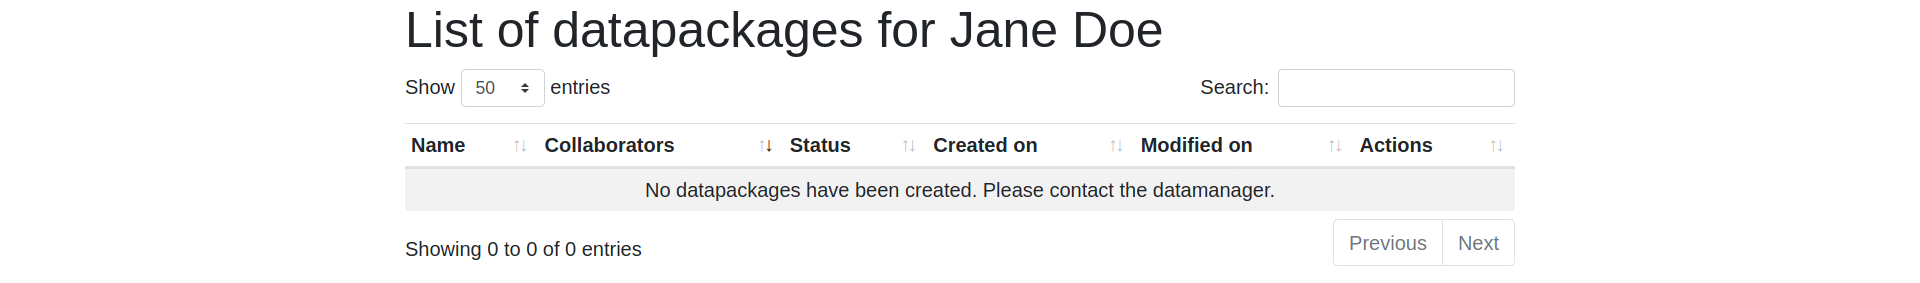
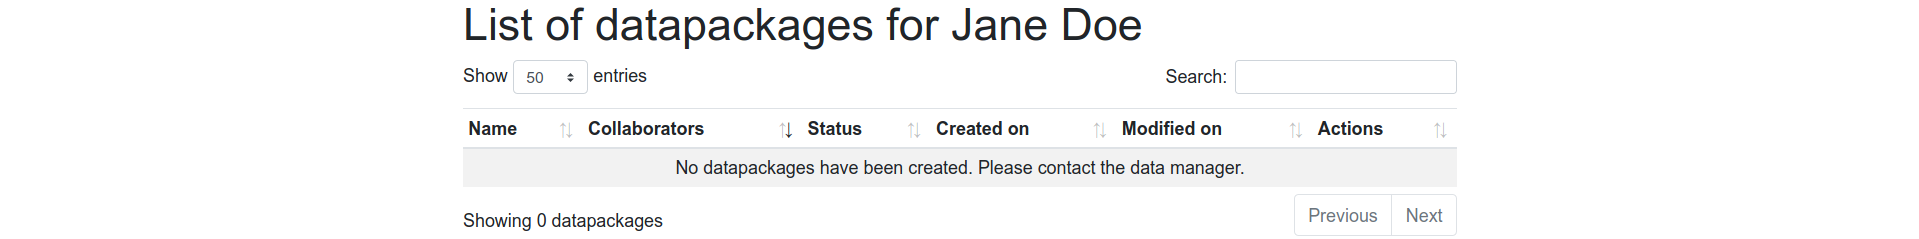
Changed strings: "Create a Collaborator" to "Create collaborator" and similar things for datapackages

diff --git a/SchemaCollaboration/management/templates/management/schema-list.html b/SchemaCollaboration/management/templates/management/schema-list.html
@@ -54,7 +54,7 @@
                 searchHighlight: true,
                 order: [[4, "desc"]],
                 language: {
-                    emptyTable: "No datapackages have been created. <a href=\"{% url 'management:datapackage-create' %}\">Create a Datapackage</a>",
+                    emptyTable: "No datapackages have been created. <a href=\"{% url 'management:datapackage-create' %}\">Create datapackage</a>",
                     zeroRecords: "No matching datapackages.",
                     info: "Showing _START_ to _END_ of _TOTAL_ datapackages",
                     infoEmpty: "Showing 0 datapackages",
@@ -65,6 +65,6 @@
         });
     </script>
     <hr>
-    <a href="{% url 'management:datapackage-create' %}" class="btn btn-primary">Create a Datapackage</a>
+    <a href="{% url 'management:datapackage-create' %}" class="btn btn-primary">Create datapackage</a>
     <p></p>
 {% endblock %}

diff --git a/SchemaCollaboration/management/templates/management/person-list.html b/SchemaCollaboration/management/templates/management/person-list.html
@@ -33,7 +33,7 @@
                 searchHighlight: true,
                 order: [[0, "asc"]],
                 language: {
-                    emptyTable: "No collaborators have been created. <a href=\"{% url 'management:collaborator-add' %}\">Create a Collaborator</a>",
+                    emptyTable: "No collaborators have been created. <a href=\"{% url 'management:collaborator-add' %}\">Create collaborator</a>",
                     zeroRecords: "No matching collaborators.",
                     info: "Showing _START_ to _END_ of _TOTAL_ collaborators",
                     infoEmpty: "Showing 0 collaborators",
@@ -44,5 +44,5 @@
         });
     </script>
     <hr>
-    <a href="{% url 'management:collaborator-add' %}" class="btn btn-primary">Create a Collaborator</a>
+    <a href="{% url 'management:collaborator-add' %}" class="btn btn-primary">Create collaborator</a>
 {% endblock %}

diff --git a/SchemaCollaboration/core/tests/database_population.py b/SchemaCollaboration/core/tests/database_population.py
@@ -35,7 +35,7 @@ def create_person():
 
 def create_datapackage():
     datapackage, created = Datapackage.objects.get_or_create(name='For the unit test',
-                                                             schema='''This should contain a datapackage''')
+                                                             schema='''This should contain datapackage''')
 
     return datapackage
 

diff --git a/documentation/User.md b/documentation/User.md
@@ -13,8 +13,8 @@ It was funded by the Frictionless Data Tool Fund 2020. There is a [blog with the
 The documentation gives detailed steps with screenshots about how to use schema-collaboration. The general ideas covered are:
  * Installing the application
  * Logging in as a data manager
- * Creating a Datapackage and adding the known information (title, authors, etc.)
- * Creating a Collaborator
+ * Creating a datapackage and adding the known information (title, authors, etc.)
+ * Creating a collaborator
  * Editing the Datapackage and assigning the newly created collaborator
  * Sending the Datapackage link to the collaborators so they can work on it
  * At any time adding comments to the datapackage to be seen either by the data manager only or by the collaborators as well
@@ -66,7 +66,7 @@ There is a left-hand side bar to navigate between "Datapackages" and "Collaborat
 ## Create the first datapackage
 The first time that a data manager logs into the system there will be no data packages. The data manager needs to create a new data package and complete the basic information.
 
-Select the button "Create a Datapackage" in order to create one:
+Select the button "Create datapackage" in order to create one:
 
 | ![list_of_datapackages_empty](images/list_of_packages_empty.png) |
 |---|
@@ -91,7 +91,7 @@ Select "Collaborators" on the left hand side bar to create the first collaborato
 | ![list_of_people_empty](images/list_of_people_empty.png) |
 |---|
 
-Select "Create a Collaborator" and enter the collaborators's name:
+Select "Create collaborator" and enter the collaborators's name:
 
 | ![create_person](images/create_person.png) |
 |---|
@@ -133,7 +133,7 @@ After this step, select "Datapackages" again and in the "List of Datapackages", 
 | ![list_of_datapackages_with_collaborator](images/list_of_datapackages_with_collaborator.png) |
 |---|
 
-## Options for a Datapackage
+## Options for a datapackage
 Each Datapackage has a set of options:
 
 |![options_for_a_datapackage](images/options_for_datapackage.png)|
@@ -211,7 +211,7 @@ If this person is a collaborator in some Datapackages it will be de-attached and
 | ![delete_confirmation](images/delete_person_confirmation.png) |
 |---|
 
-These steps are the same for deleting a Datapackage or a Comment.
+These steps are the same for deleting a datapackage or a comment.
 
 ### Other operations
 Other operations in the admin: navigate within the menu on the left-hand side and use it to modify, delete or add objects as needed.
